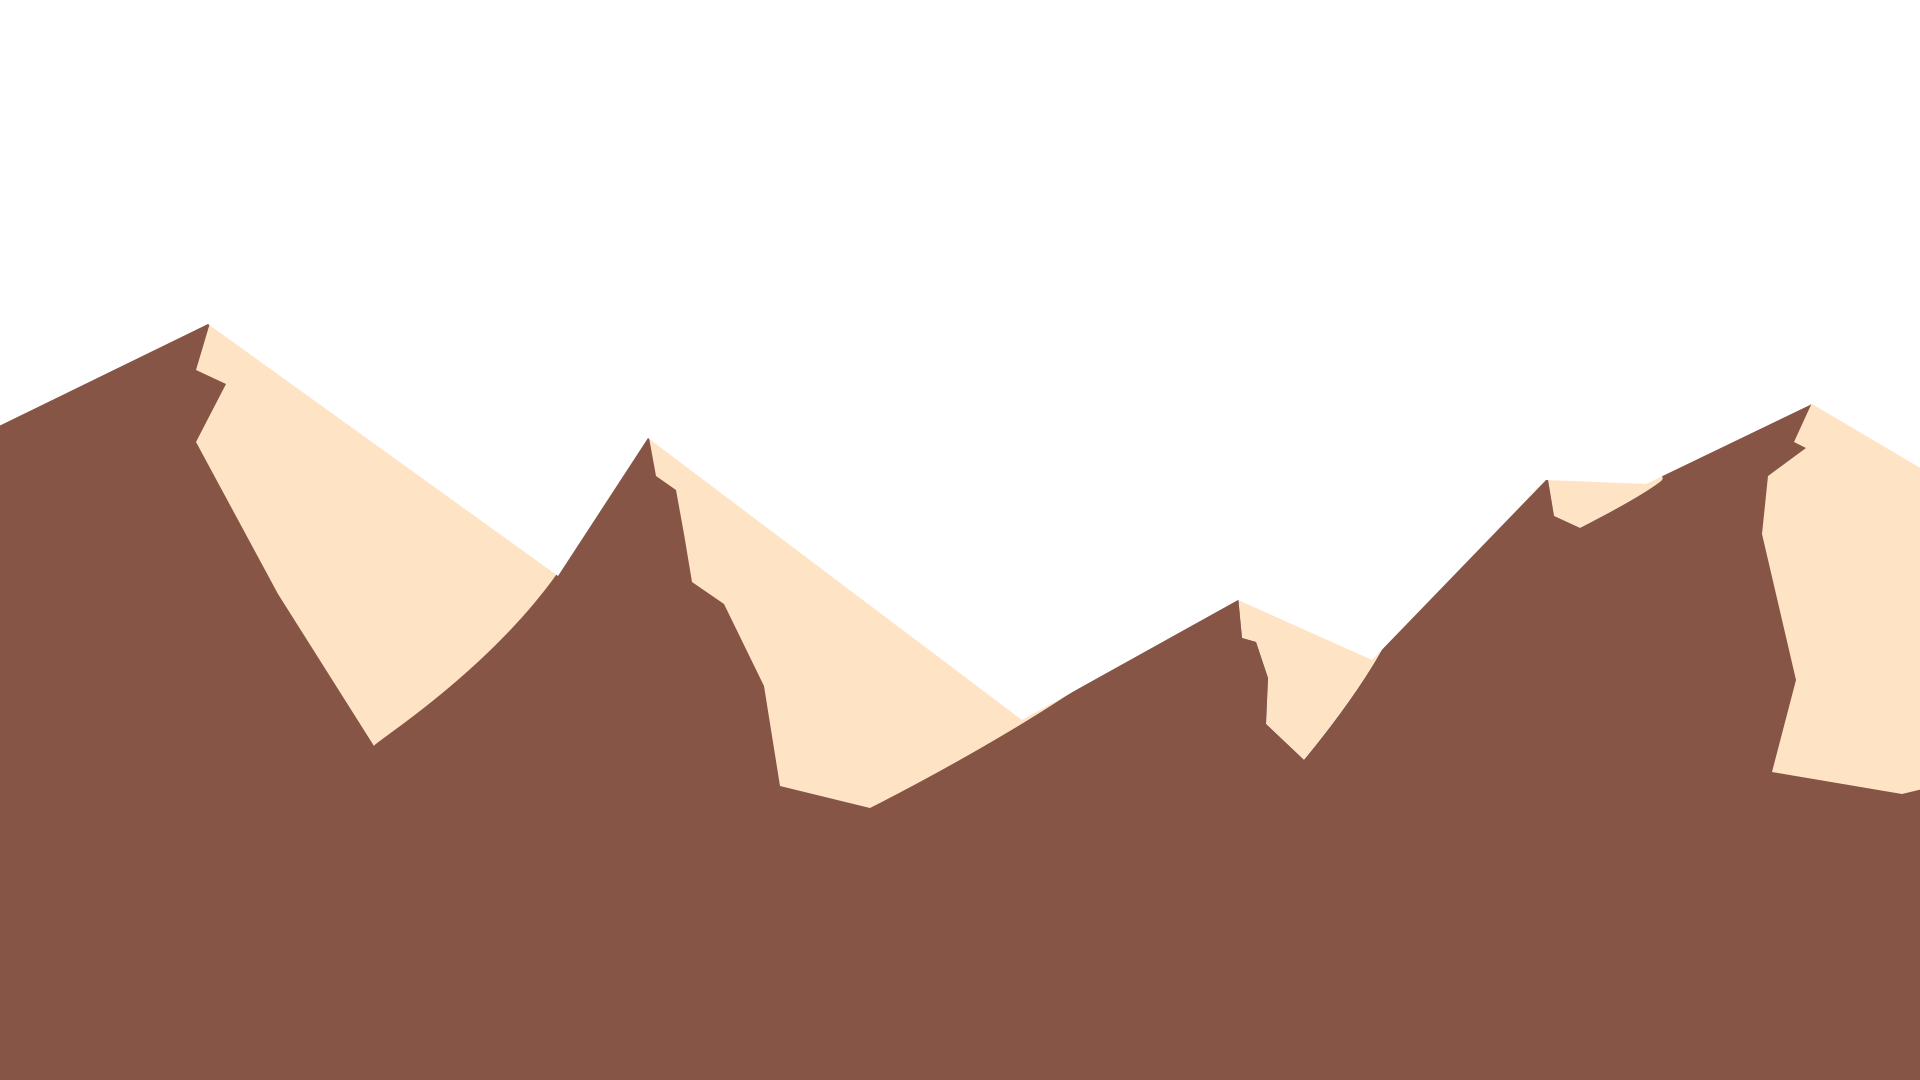
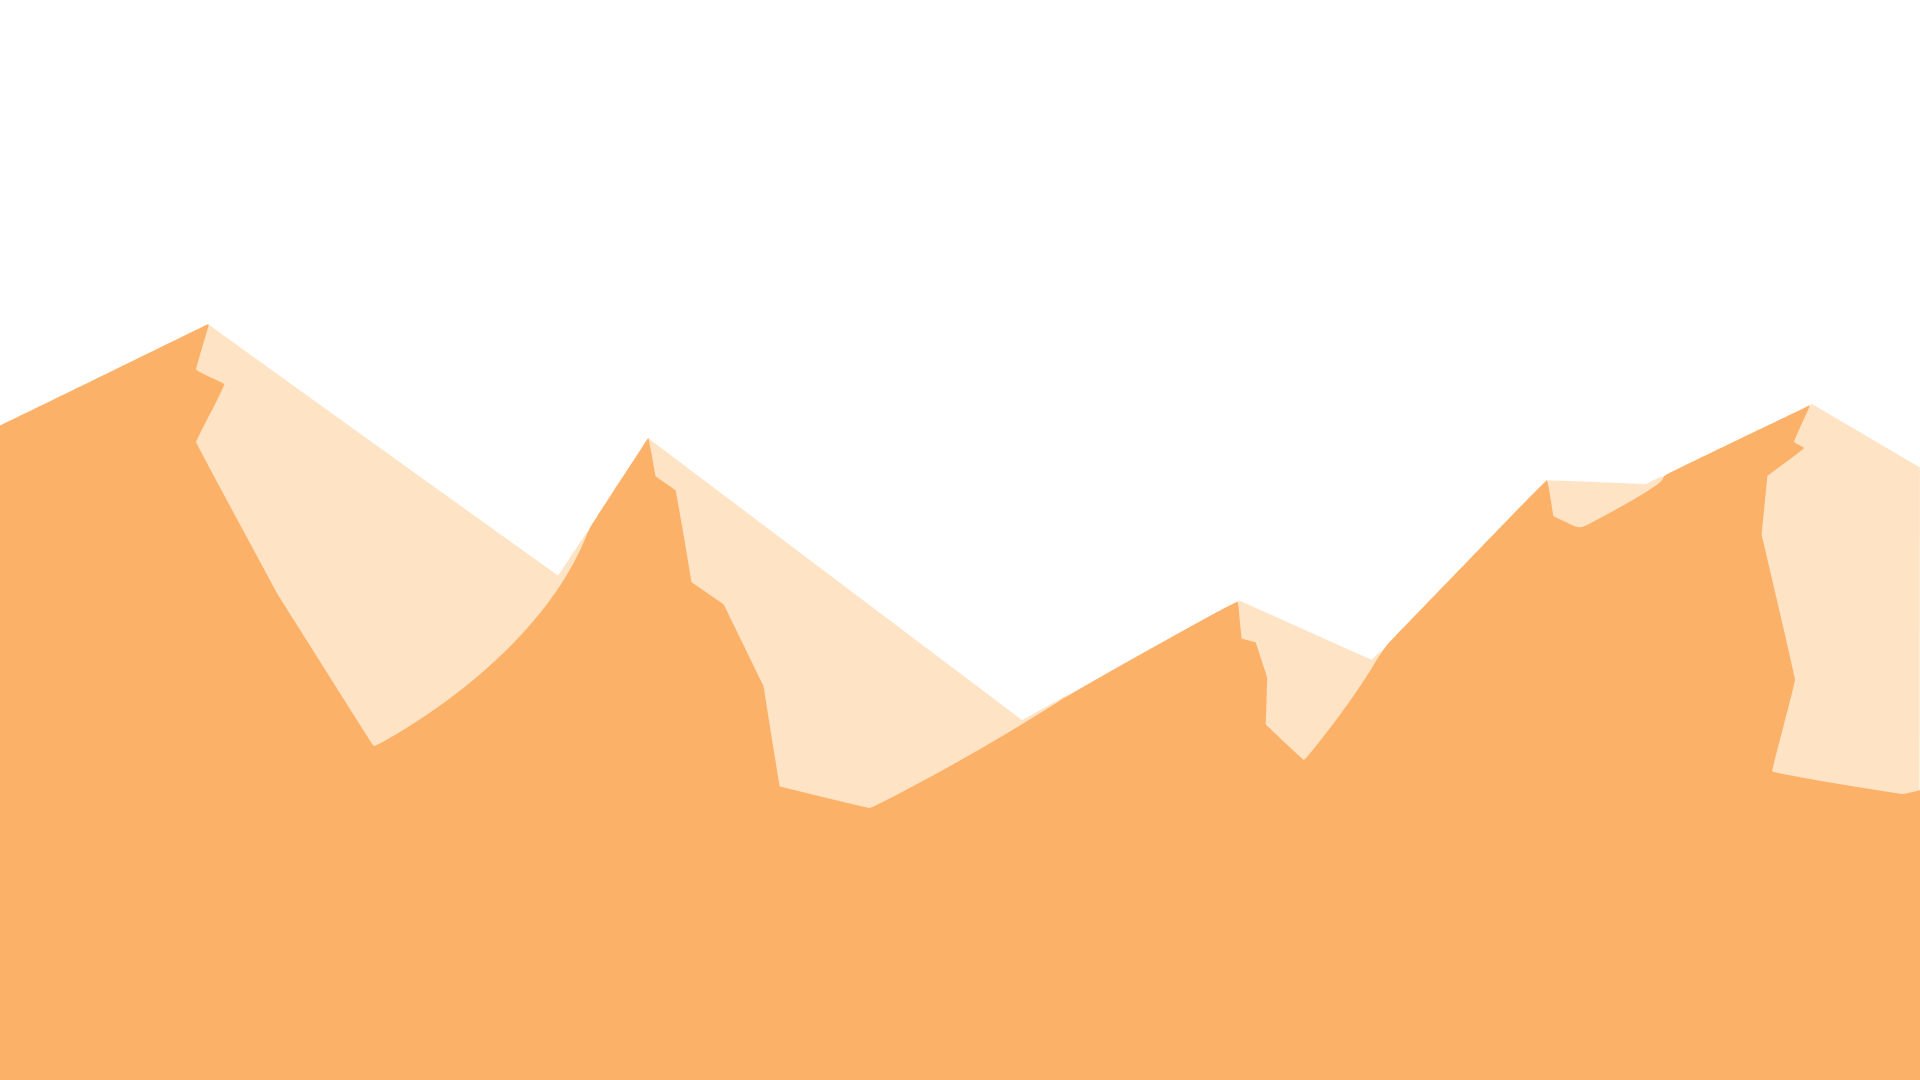
Update vector design

diff --git a/src/components/Home/Home.jsx b/src/components/Home/Home.jsx
@@ -7,11 +7,17 @@ export default function Home() {
       <div className="title-div">
         <Title>Mountains</Title>
       </div>
-      {/* <img src={images.background} alt="vector" /> */}
-      <img src={images.sun} alt="vector" />
-      <img src={images.mtnBack2} alt="vector" />
-      <img src={images.mtnBack} alt="vector" />
-      <img src={images.mtnFront} alt="vector" />
+      <img src={images.sun} className="vector vector-desktop" alt="vector" />
+      <img src={images.mtnBack2} className="vector vector-desktop" alt="vector" />
+      <img src={images.mtnBack} className="vector vector-desktop" alt="vector" />
+      <img src={images.mtnFront} className="vector vector-desktop" alt="vector" />
+      <img src={images.treeFront} className="vector vector-desktop" alt="vector" />
+
+      <img src={images.sunMobile} className="vector vector-mb" alt="vector" />
+      <img src={images.mtnBack2Mobile} className="vector vector-mb" alt="vector" />
+      <img src={images.mtnBackMobile} className="vector vector-mb" alt="vector" />
+      <img src={images.mtnFrontMobile} className="vector vector-mb" alt="vector" />
+      <img src={images.treeFrontMobile} className="vector vector-mb" alt="vector" />
     </Container>
   );
 }

diff --git a/src/components/Images/Images.jsx b/src/components/Images/Images.jsx
@@ -1,17 +1,26 @@
+import treeFront from "../../assets/front-tree.png";
 import mtnFront from "../../assets/mtn-front.png";
 import mtnBack from "../../assets/mtn-back.png";
 import mtnBack2 from "../../assets/mtn-back-2.png";
-import background from "../../assets/background2.png";
 import sun from "../../assets/sun.png";
-import lake from "../../assets/lake.png";
 import logo from "../../assets/logo.png";
 
+import treeFrontMobile from "../../assets/front-tree-mobile.png";
+import mtnFrontMobile from "../../assets/mtn-front-mobile.png";
+import mtnBackMobile from "../../assets/mtn-back-mobile.png";
+import mtnBack2Mobile from "../../assets/mtn-back-2-mobile.png";
+import sunMobile from "../../assets/sun-mobile.png";
+
 export const images = {
-  background,
+  treeFront,
+  treeFrontMobile,
   sun,
+  sunMobile,
   mtnBack,
+  mtnBackMobile,
   mtnBack2,
+  mtnBack2Mobile,
   mtnFront,
-  lake,
+  mtnFrontMobile,
   logo
 };

diff --git a/src/components/Home/Home.styled.js b/src/components/Home/Home.styled.js
@@ -3,13 +3,13 @@ import styled from "styled-components";
 export const Container = styled.div`
   width: 100%;
   height: 100vh;
-  background: rgb(255,249,182);
-  background: linear-gradient(0deg, rgba(255,249,182,1) 0%, rgba(224,153,37,1) 100%);
+  background: radial-gradient(50% 50% at 50% 50%, #FF9A29 0%, #FC5C52 100%);
 
   img {
     width: 100%;
-    height: 100%;
+    /* height: 100%; */
     position: absolute;
+    bottom: 0;
   }
 
   .title-div {
@@ -19,6 +19,19 @@ export const Container = styled.div`
     align-items: center;
     position: absolute;
     margin-top: 10rem;
+  }
+
+  .vector-mb {
+    display: none;
+  }
+
+  @media (min-width: 300px) and (max-width: 999px) and (orientation: portrait) {
+    .vector-desktop {
+      display: none;
+    }
+    .vector-mb {
+      display: initial;
+    }
   }
 `;
 

diff --git a/src/components/About/About.styled.js b/src/components/About/About.styled.js
@@ -4,7 +4,7 @@ import { setFlexbox } from "../../helpers/Mixins";
 export const Container = styled.div`
   width: 100%;
   height: 100vh;
-  background-color: #0e0e0e;
+  background-color: #090210;
   position: relative;
 
   .vector {
@@ -14,11 +14,9 @@ export const Container = styled.div`
   .div-logo {
     ${setFlexbox('center', 'center', 'row')}
     width: 100%;
-    margin-top: -5rem;
   }
 `;
 
 export const Logo = styled.img`
   margin: 0 auto;
-  margin-top: 5rem;
 `;

diff --git a/src/components/About/About.jsx b/src/components/About/About.jsx
@@ -4,7 +4,7 @@ import { images } from "../Images/Images";
 export default function About() {
   return (
     <Container>
-      <img className="vector" src={images.lake} alt="vector" />
+      {/* <img className="vector" src={images.lake} alt="vector" /> */}
       <div className="div-logo">
         <Logo src={images.logo} alt="vector" />
       </div>
